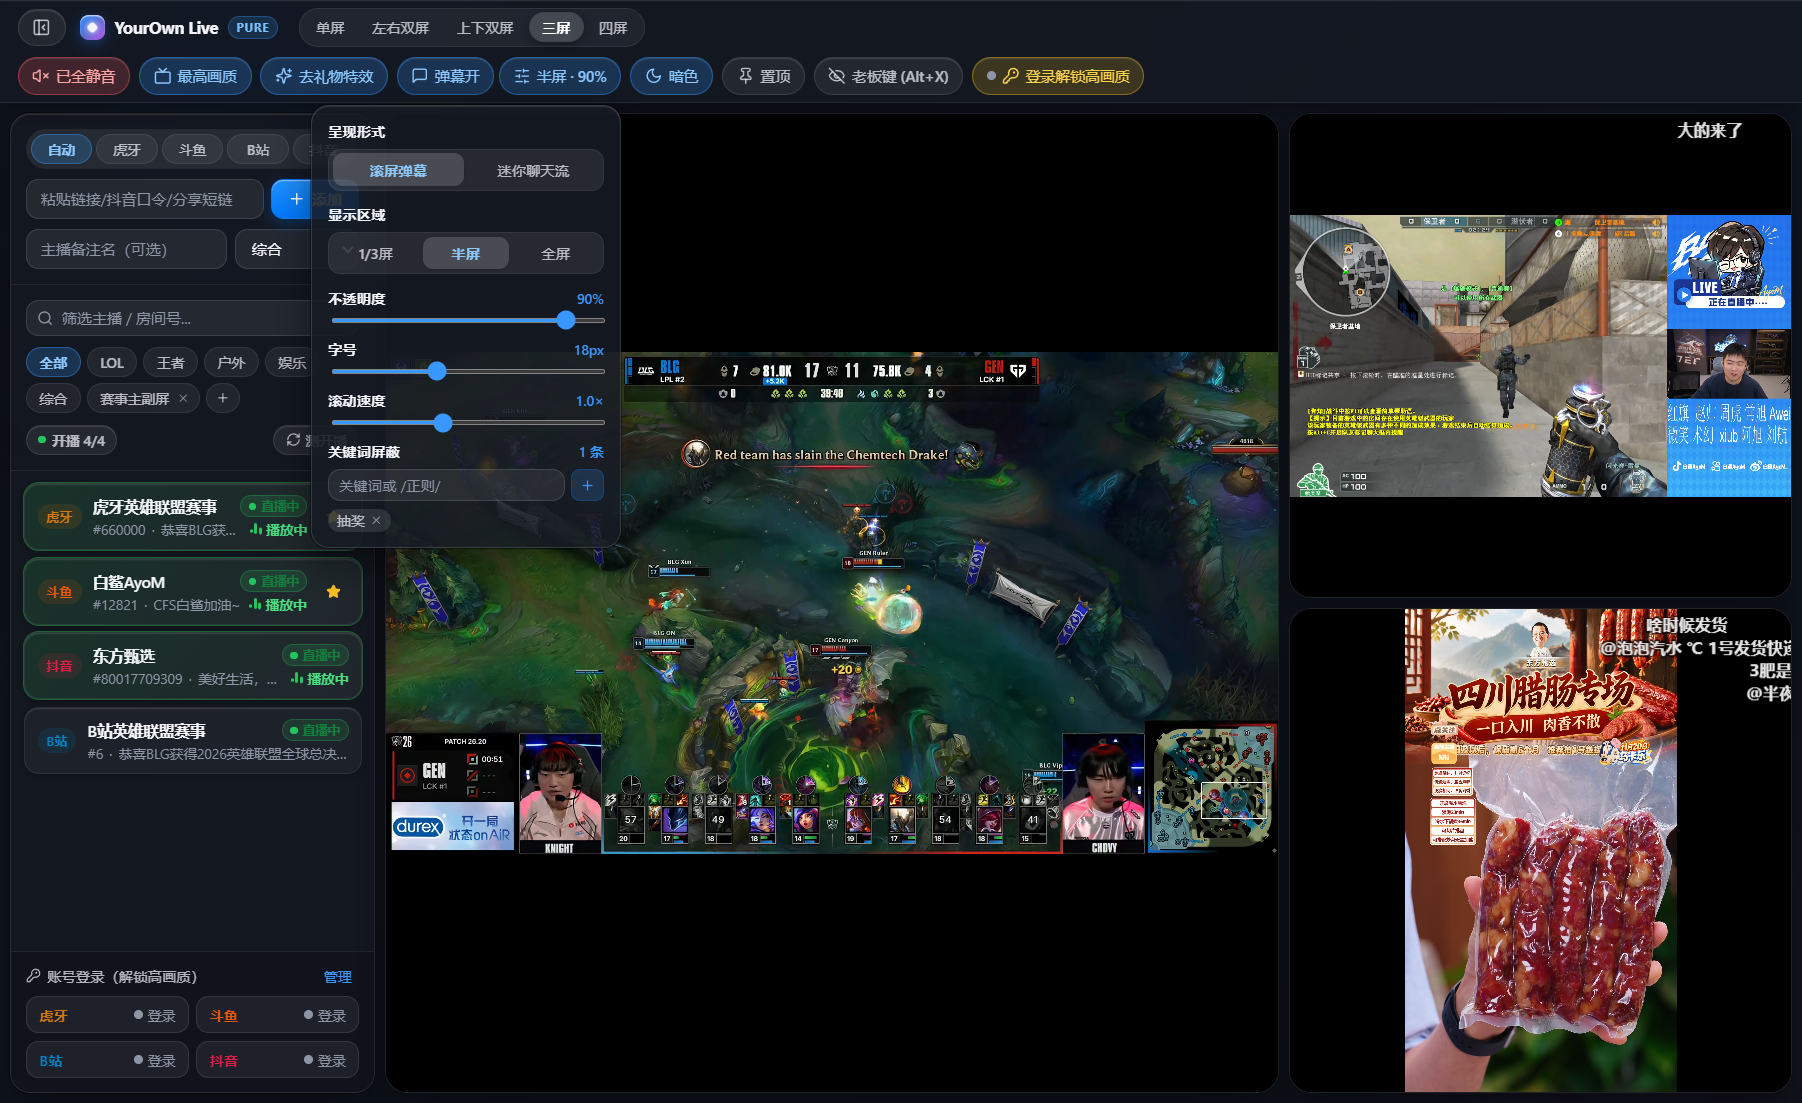
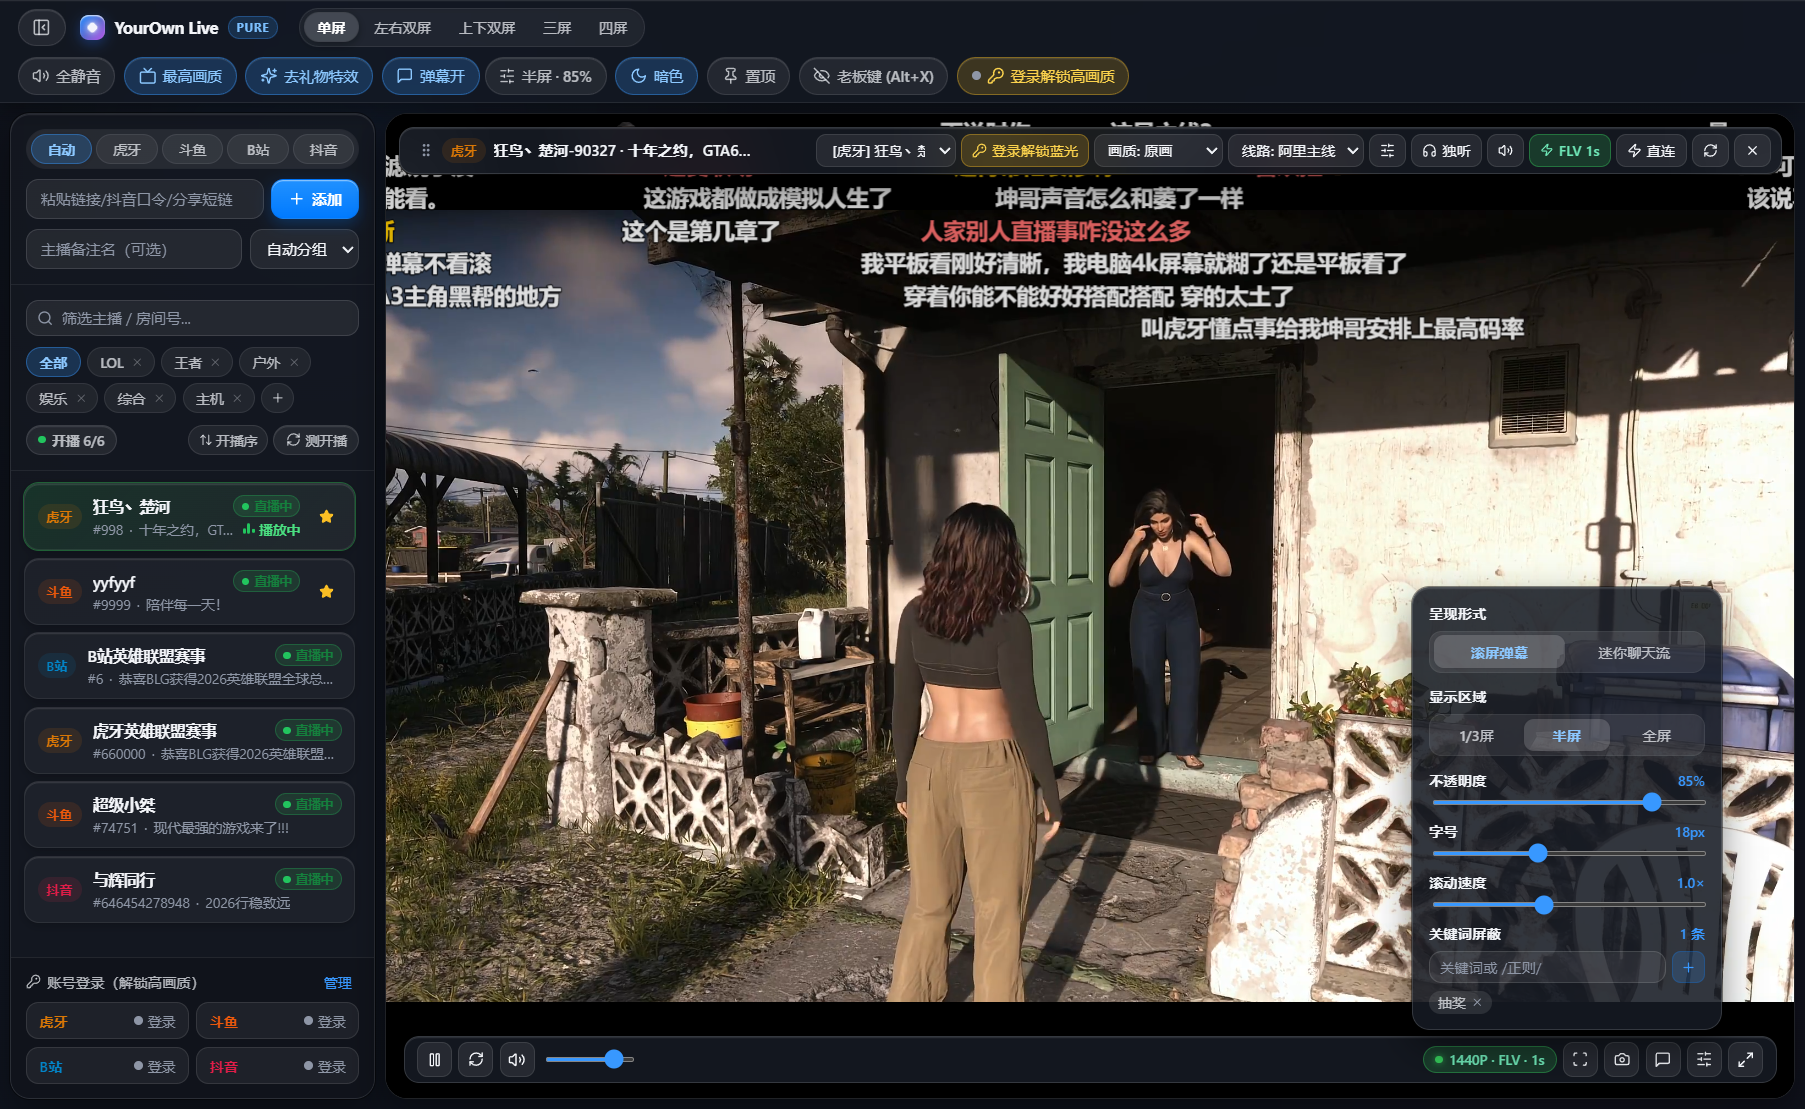
docs: refresh v0.1.3 app screenshots and sync README highlights

diff --git a/README.md b/README.md
@@ -24,10 +24,10 @@
 
 ## 📸 实机预览
 
-**浅色毛玻璃 · 虎牙 / 斗鱼 / 抖音三屏同看**
+**浅色毛玻璃 · 虎牙 / 斗鱼 / B站三屏同看（自动分组 & 开播排序）**
 ![浅色三屏同看](./docs/screenshots/light-split.png)
 
-**暗色观影模式 · 原生 Canvas 弹幕与自定义控制**
+**暗色观影模式 · 2K 原画低延迟直连、原生 Canvas 弹幕与悬浮控制栏**
 ![暗色观影模式](./docs/screenshots/dark-cinema.png)
 
 **设置中心 · 编解码硬解检测与实时连接诊断**
@@ -38,20 +38,20 @@
 ## 🚀 核心亮点
 
 ### 1. 纯净流直连 · 真正无广告
-- **四平台极速直连拉流**：支持 **虎牙 / 斗鱼 / B站 / 抖音** 原生 FLV / HLS 低延迟直连播放，无贴片广告、无推广弹窗、无礼物特效遮挡、无后台 P2P 偷跑。
-- **自动画质与线路容灾**：支持进房自动切最高画质（原画 / 蓝光），可随时手动切换清晰度与 CDN 线路；单条线路波动时自动平滑重连并轮换备用 CDN。
+- **四平台极速直连拉流**：支持 **虎牙 / 斗鱼 / B站 / 抖音** 原生 FLV / HLS / fMP4 低延迟直连播放，无贴片广告、无推广弹窗、无礼物特效遮挡、无后台 P2P 偷跑。
+- **自动最高画质与线路容灾**：支持进房自动切最高画质（最高支持 **2K / 4K / 原画 / 蓝光**，登录对应平台可解锁更高码率），可随时手动切换清晰度与 CDN 线路；单条线路波动时自动平滑重连并轮换备用 CDN。
 - **网页净化模式兜底**：一键切换「直连 / 网页」模式（需要发弹幕或看录播时切回网页），网页模式下同样内置广告/P2P 域名拦截与元素净化。
 
 ### 2. 打造你的专属主播库
 - **粘贴即看，智能识别**：直接粘贴直播间链接、房间号（如 `hy:660000`）、甚至抖音 App 分享口令与 `v.douyin.com` / `b23.tv` 短链，自动解析、自动去重、自动拉取真实主播名。
-- **实时开播状态**：自动轮询所有收藏主播的开播/轮播/未开播状态，开播主播自动排前，支持「仅看开播」一键筛选。
-- **自定义分组 & 备份迁移**：自由新建/删除分组、给主播改备注与置顶，支持收藏列表 JSON 一键导出与去重导入。
+- **实时开播 & 双排序模式**：自动轮询所有收藏主播的开播/轮播/未开播状态，支持「**开播序**」与「**自定义拖拽排序**」一键切换，并支持「仅看开播」快速筛选。
+- **自动分区归类 & 自由分组**：添加主播默认按直播分区自动归类，预置与自定义分组均支持双击重命名、删除与一键恢复；支持主播改备注、置顶以及收藏列表 JSON 一键导出与去重导入。
 
 ### 3. 灵活多屏同看 & 丝滑交互
 - **5 种分屏布局**：单屏 (`1×1`)、左右双屏 (`1×2`)、上下双屏 (`2×1`)、主副三屏 (`1+2`)、四分屏 (`2×2`) 自由切换。
 - **拖拽调比例 & 临时单屏放大**：拖动分屏中缝即可自由调整主副屏占比（双击还原），双击标题栏或点击放大按钮即可临时全舞台看某一路（其余分屏不断流，按 `Esc` 瞬间恢复）。
 - **独立音频控制**：每路分屏独立记忆音量，支持**滚轮调音量**、一键**独听**（自动静音其余分屏）与全局一键静音。
-- **实用看播小工具**：画面等比完整 / 铺满去黑边切换、一键截图复制到剪贴板、窗口置顶、浅色 / 暗色观影 / 跟随系统三态外观。
+- **实用看播小工具**：悬浮毛玻璃控制栏（全屏静止自动隐藏）、画面等比完整 / 铺满去黑边切换、一键截图复制到剪贴板、窗口置顶、浅色 / 暗色观影 / 跟随系统三态外观。
 
 ### 4. 高性能原生弹幕
 - **高 DPI `<canvas>` 弹幕引擎**：直连四平台官方 WebSocket 弹幕流（B 站自动复用已登录 Cookie），四屏同开依然流畅省资源。
